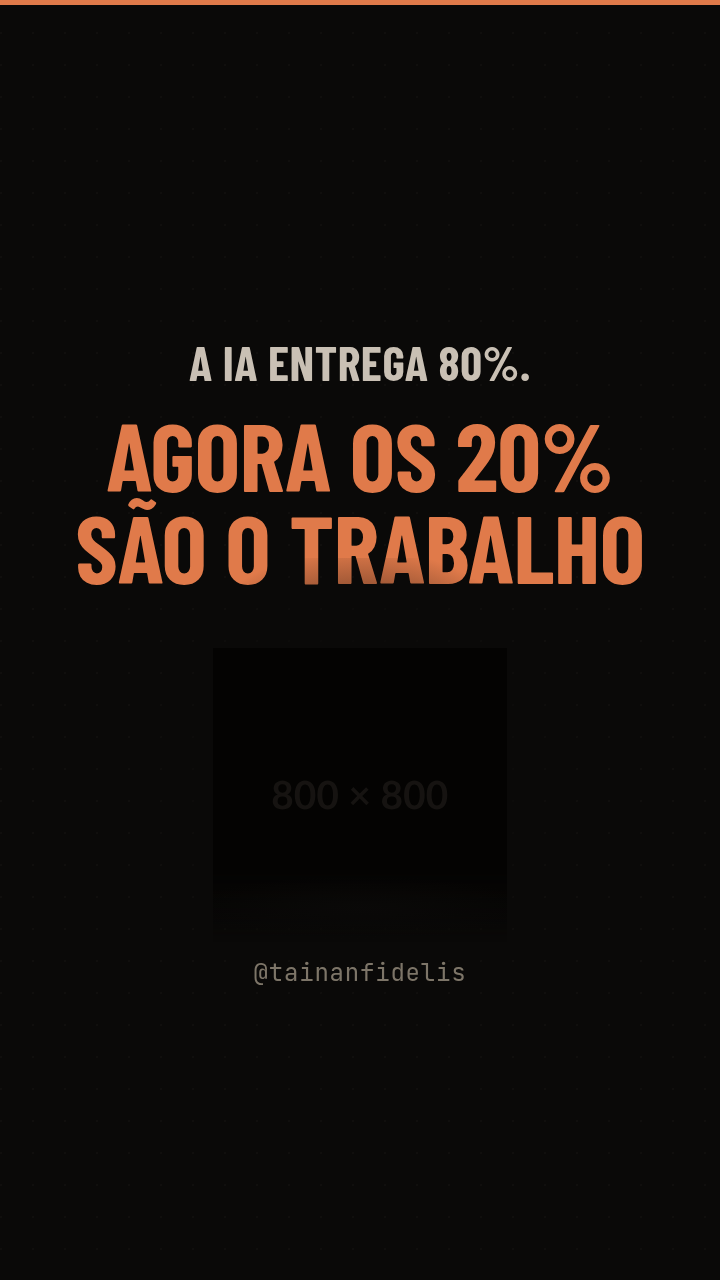
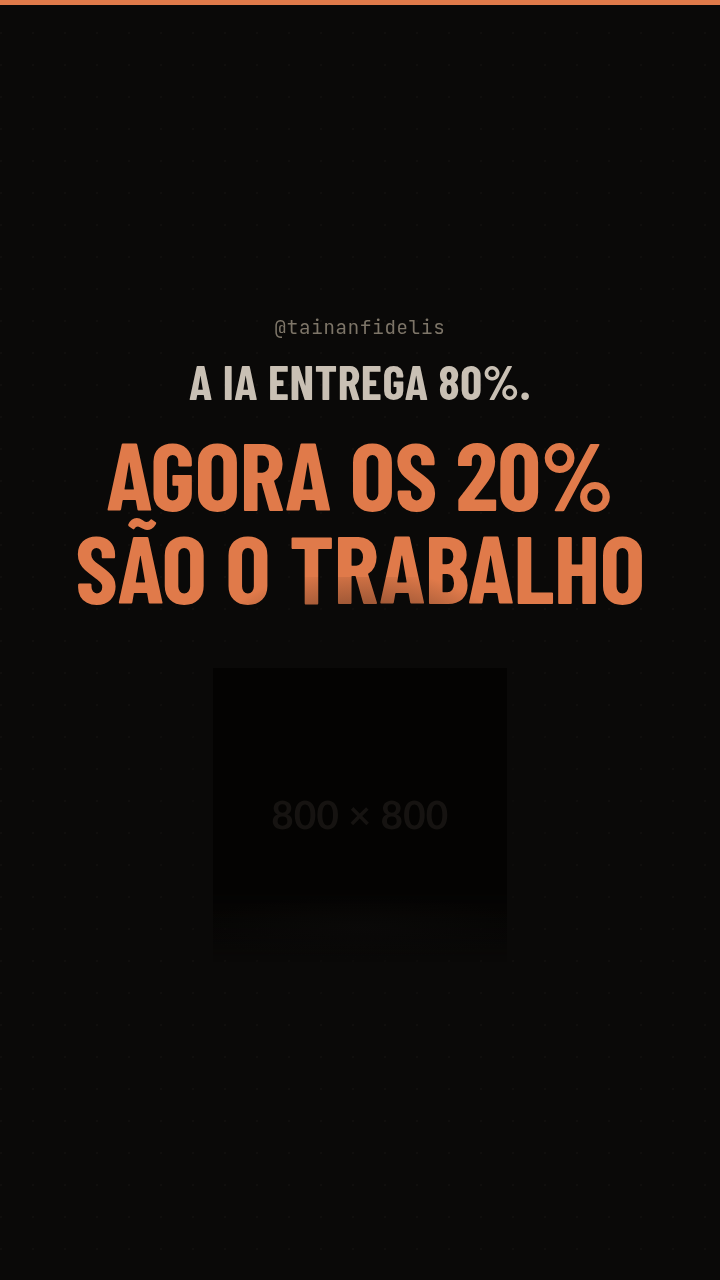
fix(reel-cover): move the handle above the copy, and make it smaller
Tainan on the first placement: "acho q n curti o @ embaixo do degrade, bora por
em cima da frase com text size menor".

He is right, and the reason is structural. Under the portrait the mark landed on
the photo's mask gradient, where it read as the first line of a caption block —
the exact block this template exists to remove. Above the copy it reads as a
byline, and the headline keeps the whole lower half of the frame to itself.

- The handle moves from the foot of the safe band to the top of the copy block.
- 24px becomes 19px.
- It is now IN FLOW instead of absolutely positioned. That is safe because the
  Mustache section removes the element entirely when no handle is passed, so a
  cover with no handle still lays out exactly as it did before the slot existed.

Crop re-measured at the new position, because higher in the frame is a DIFFERENT
risk, not a safer one. Measured with boundingBox on both shipping covers:

  cover 1  y 477-506 of 1920
  cover 2  y 485-513 of 1920

Instagram crops rows 420 to 1500 for the 1:1 profile grid, so the mark clears
the top edge by 57px and 65px.

Re-confirmed: the same cover rendered with NO handle is byte-identical
(md5 3963c4d5…) to the approved cover.

Local checks green: lint:css, check:registry, test:automerge, check:canvas.

Claude-Session: https://claude.ai/code/session_019Jo4tJ2TFxoyQh42A75VZ1

Changed region(s): [[0.0917, 0.25, 0.9167, 0.5], [0.3361, 0.75, 0.5806, 0.7812], [0.6111, 0.75, 0.6417, 0.7812]]

diff --git a/templates/reel-cover/portrait.css b/templates/reel-cover/portrait.css
@@ -216,24 +216,30 @@
  * The distinction is the whole design: a mark is attribution, a block is
  * verbosity. So this slot takes one string and gives it no room to grow.
  *
- * It is positioned ABSOLUTELY inside the safe band, which is what keeps it out
- * of the flex centring of the copy and the portrait. A cover that passes no
- * handle lays out exactly as it did before this slot existed.
+ * It sits ABOVE the copy, not under the portrait. Under the portrait it landed
+ * on the mask gradient, where it read as the first line of a caption block
+ * rather than as a mark ("acho q n curti o @ embaixo do degrade, bora por em
+ * cima da frase com text size menor" — Tainan, 2026-09-14). Above the copy it
+ * reads as a byline, and the headline keeps the whole lower half to itself.
  *
- * `bottom: 105px` puts its baseline at y=985 of 1280, which is 1478 of a
- * 1080x1920 export. Instagram's profile grid crops a 1:1 square from the
- * centre — rows 420 to 1500 — so the mark survives the thumbnail. A few pixels
- * lower and it would not.
+ * It is IN FLOW, which is safe because the Mustache section removes the element
+ * entirely when no handle is passed. A cover with no handle lays out exactly as
+ * it did before this slot existed.
+ *
+ * 19px mono. Small enough that it cannot compete with a 96px or 132px display
+ * headline, large enough to stay legible after Instagram's grid downscale.
+ * Measured position on both shipping covers: y 300-319 of 1280, which is
+ * y 450-479 of a 1080x1920 export. Instagram crops a 1:1 square from the centre
+ * for the profile grid — rows 420 to 1500 — so the mark survives the thumbnail
+ * with room above it.
  */
 .tpl-root.tpl-reel-cover.tpl-reel-cover--portrait .tpl-reel-cover__handle {
-  position: absolute;
-  left: 0;
-  right: 0;
-  bottom: 105px;
+  display: block;
+  margin-bottom: 20px;
   text-align: center;
   font-family: var(--s-font-mono, 'JetBrains Mono', monospace);
   font-weight: var(--p-weight-500, 500);
-  font-size: 24px;
+  font-size: 19px;
   line-height: 1;
   letter-spacing: var(--p-tracking-wider, 0.8px);
   color: var(--s-ink-muted, #7d7568);

diff --git a/templates/reel-cover/portrait.html b/templates/reel-cover/portrait.html
@@ -2,6 +2,7 @@
   <span class="tpl-reel-cover__rule"></span>
   <div class="tpl-reel-cover__safe">
     <div class="tpl-reel-cover__copy">
+      {{#handle}}<span class="tpl-reel-cover__handle">{{handle}}</span>{{/handle}}
       {{#kicker}}<span class="tpl-reel-cover__kicker">{{kicker}}</span>{{/kicker}}
       <p class="tpl-reel-cover__headline">{{headline}}</p>
     </div>
@@ -12,6 +13,5 @@
       <span class="tpl-reel-cover__floor"></span>
     </div>
     {{/photoUrl}}
-    {{#handle}}<span class="tpl-reel-cover__handle">{{handle}}</span>{{/handle}}
   </div>
 </div>
